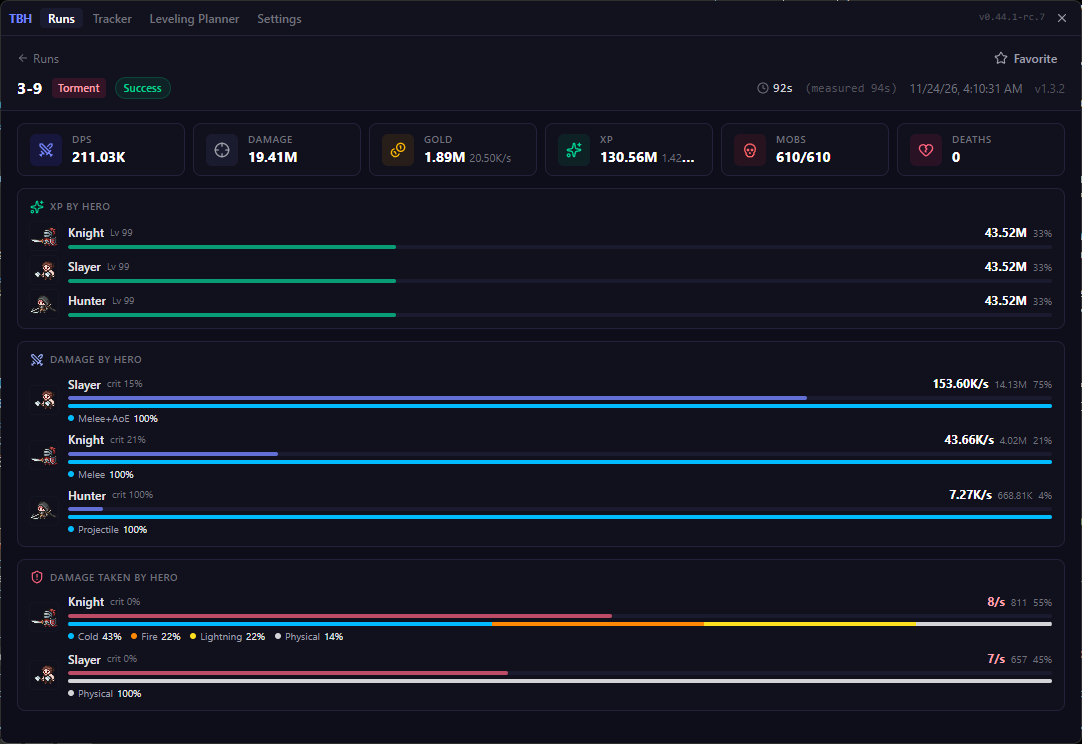
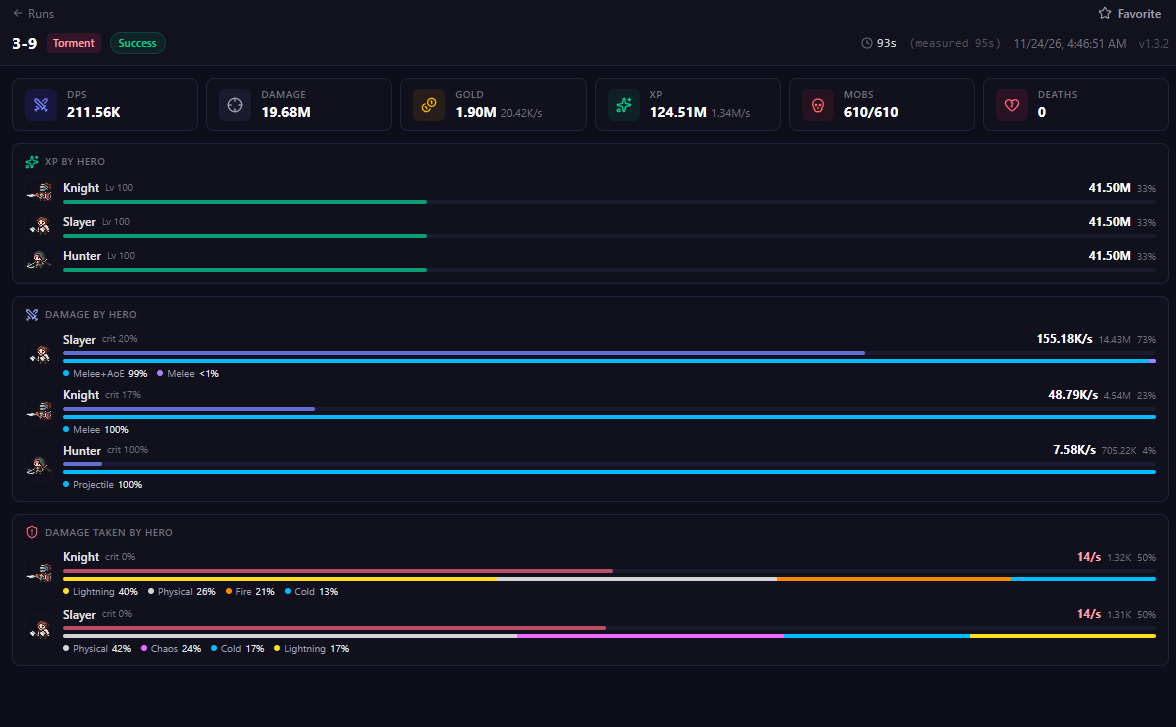
docs: new screenshots, tip links and star call-out in the README
Swap in sharper screenshots, add the maintainer's Buy Me a Coffee and WeChat tip
code (original authors' link kept first and in FUNDING.yml), drop the plague-label
bullet.

diff --git a/README.md b/README.md
@@ -9,7 +9,7 @@
 [![Platform](https://img.shields.io/badge/platform-Windows%2010%2B-0078d4)](https://github.com/Reyn4Bo/tbh-meter/releases)
 [![License](https://img.shields.io/badge/license-MIT-blue)](./LICENSE)
 
-<img src=".github/assets/fork/overlay.png" width="420" alt="Live overlay: team DPS, per-hero DPS share, damage-taken share, mobs, gold/EXP and the party">&nbsp;&nbsp;<img src=".github/assets/fork/hero-tooltip.png" width="228" alt="Per-hero tooltip: time to level, DPS, share, crit rate, hits, damage types and resistances">
+<img src=".github/assets/fork/overlay.png" width="520" alt="Live overlay: team DPS, per-hero DPS share, damage-taken share, mobs, gold/EXP and the party">&nbsp;&nbsp;<img src=".github/assets/fork/hero-tooltip.png" width="261" alt="Per-hero tooltip: time to level, DPS, share, crit rate, hits, damage types, damage taken by element">
 
 _Unofficial edition of [mad-labs-org/tbh-meter](https://github.com/mad-labs-org/tbh-meter) — not made by or endorsed by the game's developer or the original authors._
 
@@ -17,7 +17,7 @@ _Unofficial edition of [mad-labs-org/tbh-meter](https://github.com/mad-labs-org/
 
 ---
 
-**中文简介：** 这是 TBH Meter 的非官方修改版，适配 Task Bar Hero **1.3.2**，新增**每个英雄的 DPS / 承伤 / 伤害类型统计**（可选功能，默认关闭）、修正了抗性、击杀数、关卡名等显示问题，并支持隐藏 meter 和游戏本体的任务栏图标。安装包在 [Releases](https://github.com/Reyn4Bo/tbh-meter/releases) 页面下载，Windows 10 以上，无需管理员权限。
+**中文简介：** 这是 TBH Meter 的非官方修改版，适配 Task Bar Hero **1.3.2**，新增**每个英雄的 DPS / 承伤 / 伤害类型统计**（可选功能，默认关闭）、修正了抗性、击杀数等显示问题，并支持隐藏 meter 和游戏本体的任务栏图标。安装包在 [Releases](https://github.com/Reyn4Bo/tbh-meter/releases) 页面下载，Windows 10 以上，无需管理员权限。
 
 ## What's new in this edition
 
@@ -38,7 +38,7 @@ The original meter only knows team DPS: memory alone cannot tell which hero land
 | Where | What you get |
 | ----- | ------------ |
 | **Overlay** | Per-hero DPS and share bar; damage-taken share (who is tanking); per-hero DPS under each portrait |
-| **Hero tooltip** | DPS, share of team damage, crit rate, hit count, damage type / element breakdown, resistances |
+| **Hero tooltip** | DPS, share of team damage, crit rate, hit count, damage type breakdown; damage taken per second, share and element breakdown |
 | **Run detail** | _Damage by hero_ (DPS, total, share, crit, type breakdown) and _Damage taken by hero_ (by element / type) |
 
 <div align="center">
@@ -56,7 +56,6 @@ The numbers reconcile exactly with the meter's own team damage (ratio **1.000** 
 
 - **Resistances** — affixes that change several resistances at once (and "decrease" stats) are now applied, so the shown values match the in-game stat sheet.
 - **Kill totals** — the stage total now subtracts the _wave-reduction_ runes from the talent tree (e.g. 553 instead of the raw wave count).
-- **Plague stages** — labelled `P-20` instead of a meaningless `23-20`.
 - **Dead heroes** — keep their last-known stats, greyed out with a skull, instead of disappearing from the party.
 - **Layout** — the DPS, damage-taken and mobs bars line up edge to edge.
 
@@ -131,6 +130,23 @@ If the meter helps your runs, consider supporting the original authors:
 <div align="center">
 
 [<img src="https://cdn.buymeacoffee.com/buttons/v2/default-yellow.png" alt="Buy Me A Coffee — support the original TBH Meter authors" height="45">](https://buymeacoffee.com/viniarruda)
+
+</div>
+
+## Support this edition
+
+**⭐ The easiest way to help: star this repo!** It's free, it keeps the 1.3.2 edition easy to find for other players, and it tells me the work is worth keeping up with future game updates.
+
+If you'd like to buy me a coffee for the 1.3.2 port and the per-hero DPS work, that's hugely appreciated too — every bit goes into keeping this edition updated.
+
+**如果觉得好用，请先点个 ⭐ Star！** 这是最简单的支持方式，也能让更多玩家找到这个版本。想请我喝杯咖啡的话，也非常感谢 —— 会用来持续跟进游戏更新。
+
+<div align="center">
+
+[<img src="https://cdn.buymeacoffee.com/buttons/v2/default-yellow.png" alt="Buy Me A Coffee — support the 1.3.2 edition" height="45">](https://buymeacoffee.com/milanory)
+
+<img src=".github/assets/fork/wechat-tip.png" width="200" alt="WeChat tip code (微信赞赏码)"><br>
+<sub>微信赞赏码 · WeChat tip code</sub>
 
 </div>
 
